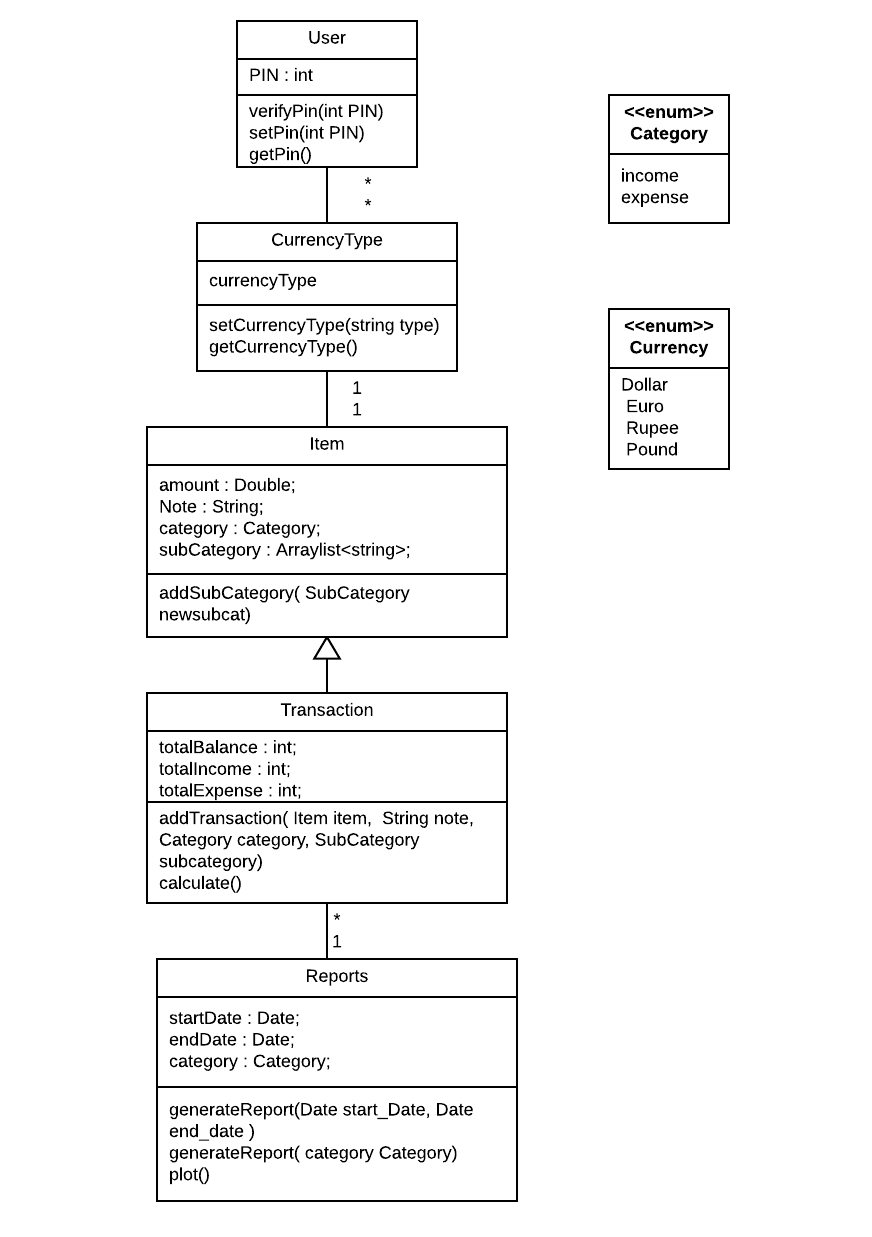
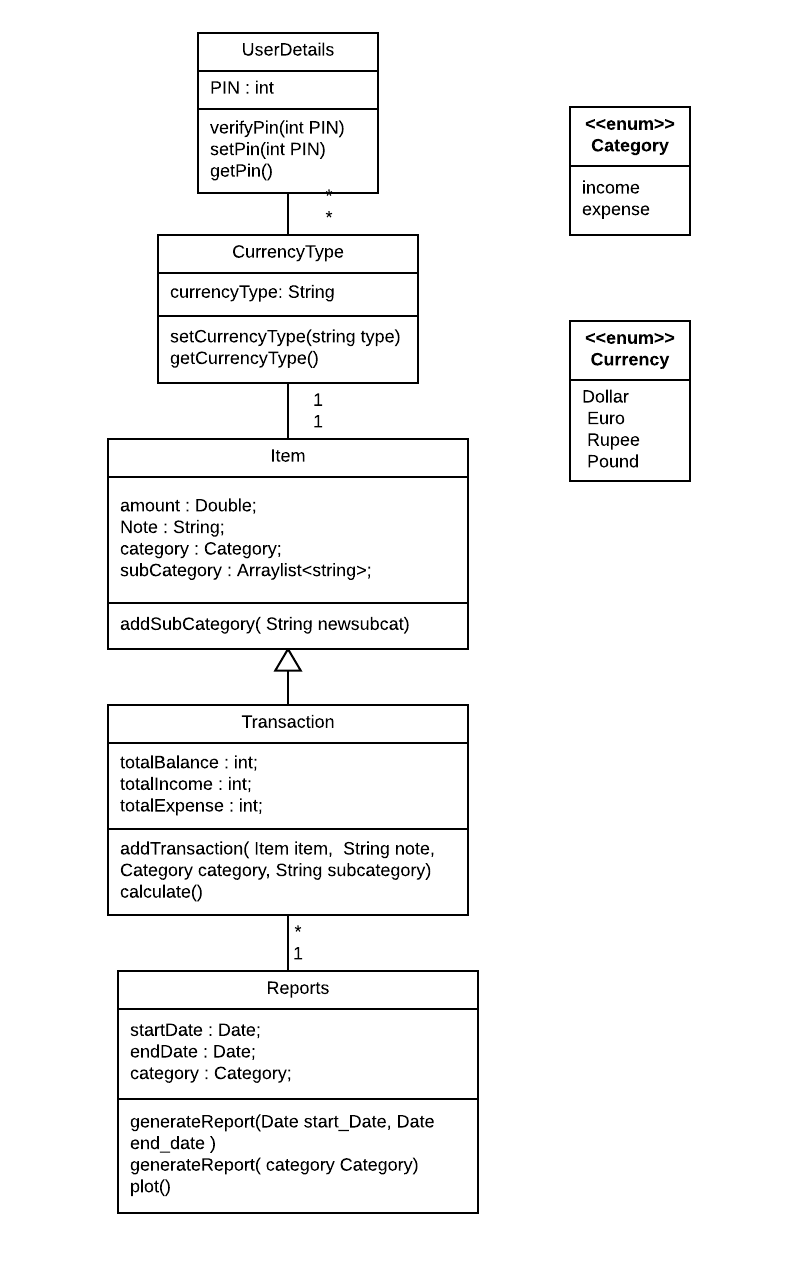
class overview

Changed region(s): [[0.1218, 0.0, 0.6091, 0.983], [0.6701, 0.2458, 0.8832, 0.3994], [0.6701, 0.0614, 0.8832, 0.1843]]

diff --git a/docs/_posts/2017-05-20-SystemDesign.md b/docs/_posts/2017-05-20-SystemDesign.md
@@ -24,12 +24,11 @@
 
 <h3 style="color: #2e6c80;">Detail description of classes and there associations</h3>
 <ol>
+
 <li>
-<p> User class</p>
+<p> <b>User class</b></p>
 <ul>
-<li>
-Contains attribute PIN of type integer. Accepts PIN of length 4.
-</li>
+<li><p>Contains attribute PIN of type integer. Accepts PIN of length 4<p></li>
 <li>
 Contains three methods :
 <ul>
@@ -40,10 +39,57 @@ Contains three methods :
 </li>
 <ul>
 </li>
+<li><p>Every user after login will be allowed to select one curreny type. Hence user is associated with minimum of one currency type and maxximum of any number of currency types available</p></li>
+
+<li><p><b>CurrencyType class</b></p>
+<ul>
+<li>Contains attribute currencyType of type String.</li>
+<li>Contains getters and setters to get and set value of currency type across the application as it is made private.</li>
+</ul></li>
+<li><p>Currency is associated with every item and each user is allowed to set currency type very first time he logs into the application</p></li>
+
+<li><p><b>UserDetails class</b></p>
+<ul>
+<li>Contains attributes : amount of type integer,Note of type string, Category of type enum,subCategory of type Arraylist</li>
+<li>Contains method :<ul><li><p>addSubCategory(Item item) - adds custom defined subCategory of type item to Arraylist of subCategories which is predefined </p></li></ul></li>
+</ul></li>
+<li><p>Every Item is associated with one currencyType and one item per transaction</p></li>
+
 <li>
-Every user after login will be allowed to select one curreny type. Hence user is associated with minimum of one currency type and maxximum of any number of currency types available.
+<p> <b>Transaction class</b></p>
+<ul>
+<li><p>Contains attribute totalBalance, totalIncome and totalExpense of type integer.</li>
+<li>
+Contains two methods :
+<ul>
+<li><p>addTransaction(Item item, String note, Category category, String subCategory) - Adds transaction for selected category and subCategory with note and amount details</p></li>
+<li><p>Calculate() - calculates total balance, expense and income for every transaction and keeps application with updated values</p></li>
+</ul>
 </li>
-<li><p></p></li>
+<li>
+<p>Every transaction consits of atleast one Item. Transaction inherits class Item, hence has acess to all attributes and methods defined in class Items and one or many transaction will involve in generating the report.
+Basically handles all actions involved in adding and maintaining of transactions under Income or Expense category.</p>
+</li>
+
+<li>
+<p> <b>Report class</b></p>
+<ul>
+<li>
+<p>Contains attribute startDate and endDate of type Date and Category of type enum</p>
+</li>
+<li>
+Contains three methods :
+<ul>
+<li><p>generateReport(startDate Date, endDate Date) - Generates report based on the given range of date values</p></li>
+<li><p>generateReport(Category category) - Generates report based on the selected category value</p></li>
+<li><p>Plot() - Plots the graph for given values</p></li>
+</ul>
+</li>
+<li><p>
+Each report consits atleast one transaction and can take any number of transactions based on the defined date range or category. It will fetch required data and plots in Bar graph/ Pie or Line chart
+</p>
+</li>
+
 </ol>
 
 </div>
